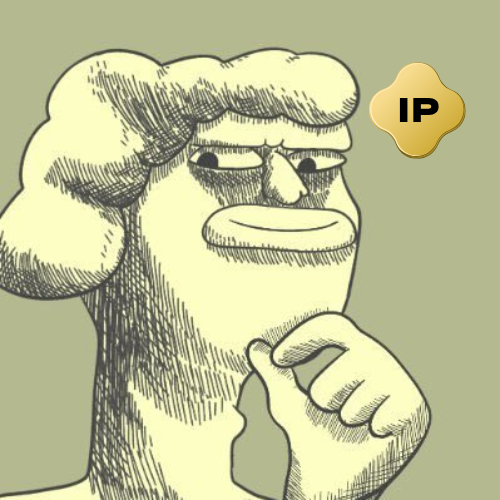
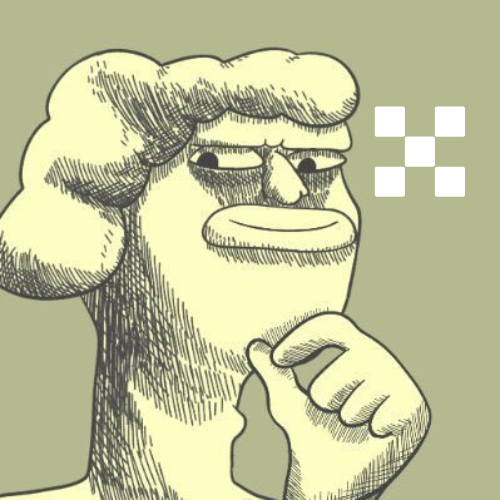
fix

Changed region(s): [[0.72, 0.12, 0.93, 0.42]]

diff --git a/index.html b/index.html
@@ -4,7 +4,7 @@
 <head>
     <meta charset="UTF-8">
     <meta name="viewport" content="width=device-width, initial-scale=1.0">
-    <title>MONDO on Story</title>
+    <title>MONDO on X-LAYER</title>
     <link rel="icon" type="image/x-icon" href="images/head11.png">
     <link rel="stylesheet" href="css/index.css">
     <link rel="stylesheet" href="css/aos.css">
@@ -22,7 +22,7 @@
                 <p>MONDO </p>
             </div>
 
-            <a style="cursor: pointer;" href="https://www.ip.world/token/0xb720B61941Fe8fc33aAF1cCa34F1aE75fB5dF370" target="_blank">
+            <a style="cursor: pointer;" href="https://dyorswap.org/launchinfo/?id=SOON&chainId=196" target="_blank">
                 <button>
                     BUY MONDO
                     <img src="images/arrow.png" alt>
@@ -39,7 +39,7 @@
                 <p class="hover">*hover*</p>
                 <!-- <img style="width: 150px;border-radius: 50%;" src="images/ton3d.jpg" class="heads" alt> -->
                 <img src="images/head11.png" class="heads" alt>
-                <h1>MONDO ON Story</h1>
+                <h1>MONDO ON X-LAYER</h1>
 
                 <div class="socials">
 
@@ -49,7 +49,7 @@
                         </div>
                     </a>
 
-                    <a href="https://x.com/MONDO_IP" target="_blank">
+                    <a href="https://x.com/Mondo_OKX" target="_blank">
                         <div class="social">
                             <img src="images/whitex.png" alt>
                         </div>
@@ -59,7 +59,7 @@
                             <img src="images/dexlogo.png" alt>
                         </div>
                     </a>
-                    <!-- <a href="https://www.puush.fun/coin/$IP" target="_blank">
+                    <!-- <a href="https://www.puush.fun/coin/$OKB" target="_blank">
                         <div class="social">
                             <img style="width: 58px;" src="images/dedust.png" alt>
                         </div>
@@ -71,7 +71,7 @@
 
         <div class="about">
             <h1 class="heading">ABOUT MONDO</h1>
-            <h2 class="heading2">CA:0xb720B61941Fe8fc33aAF1cCa34F1aE75fB5dF370
+            <h2 class="heading2">CA:SOON
             </h2>
             <div class="leftnright">
                 <div class="left">
@@ -107,7 +107,7 @@
                             <p>2</p>
                         </div>
                         <p class="how">
-                            Get some $IP
+                            Get some $OKB
                         </p>
                     </div>
                     <div class="step">
@@ -115,7 +115,7 @@
                             <p>3</p>
                         </div>
                         <p class="how">
-                            Swap $IP for $MONDO
+                            Swap $OKB for $MONDO
                         </p>
                     </div>
                     <div class="step">
